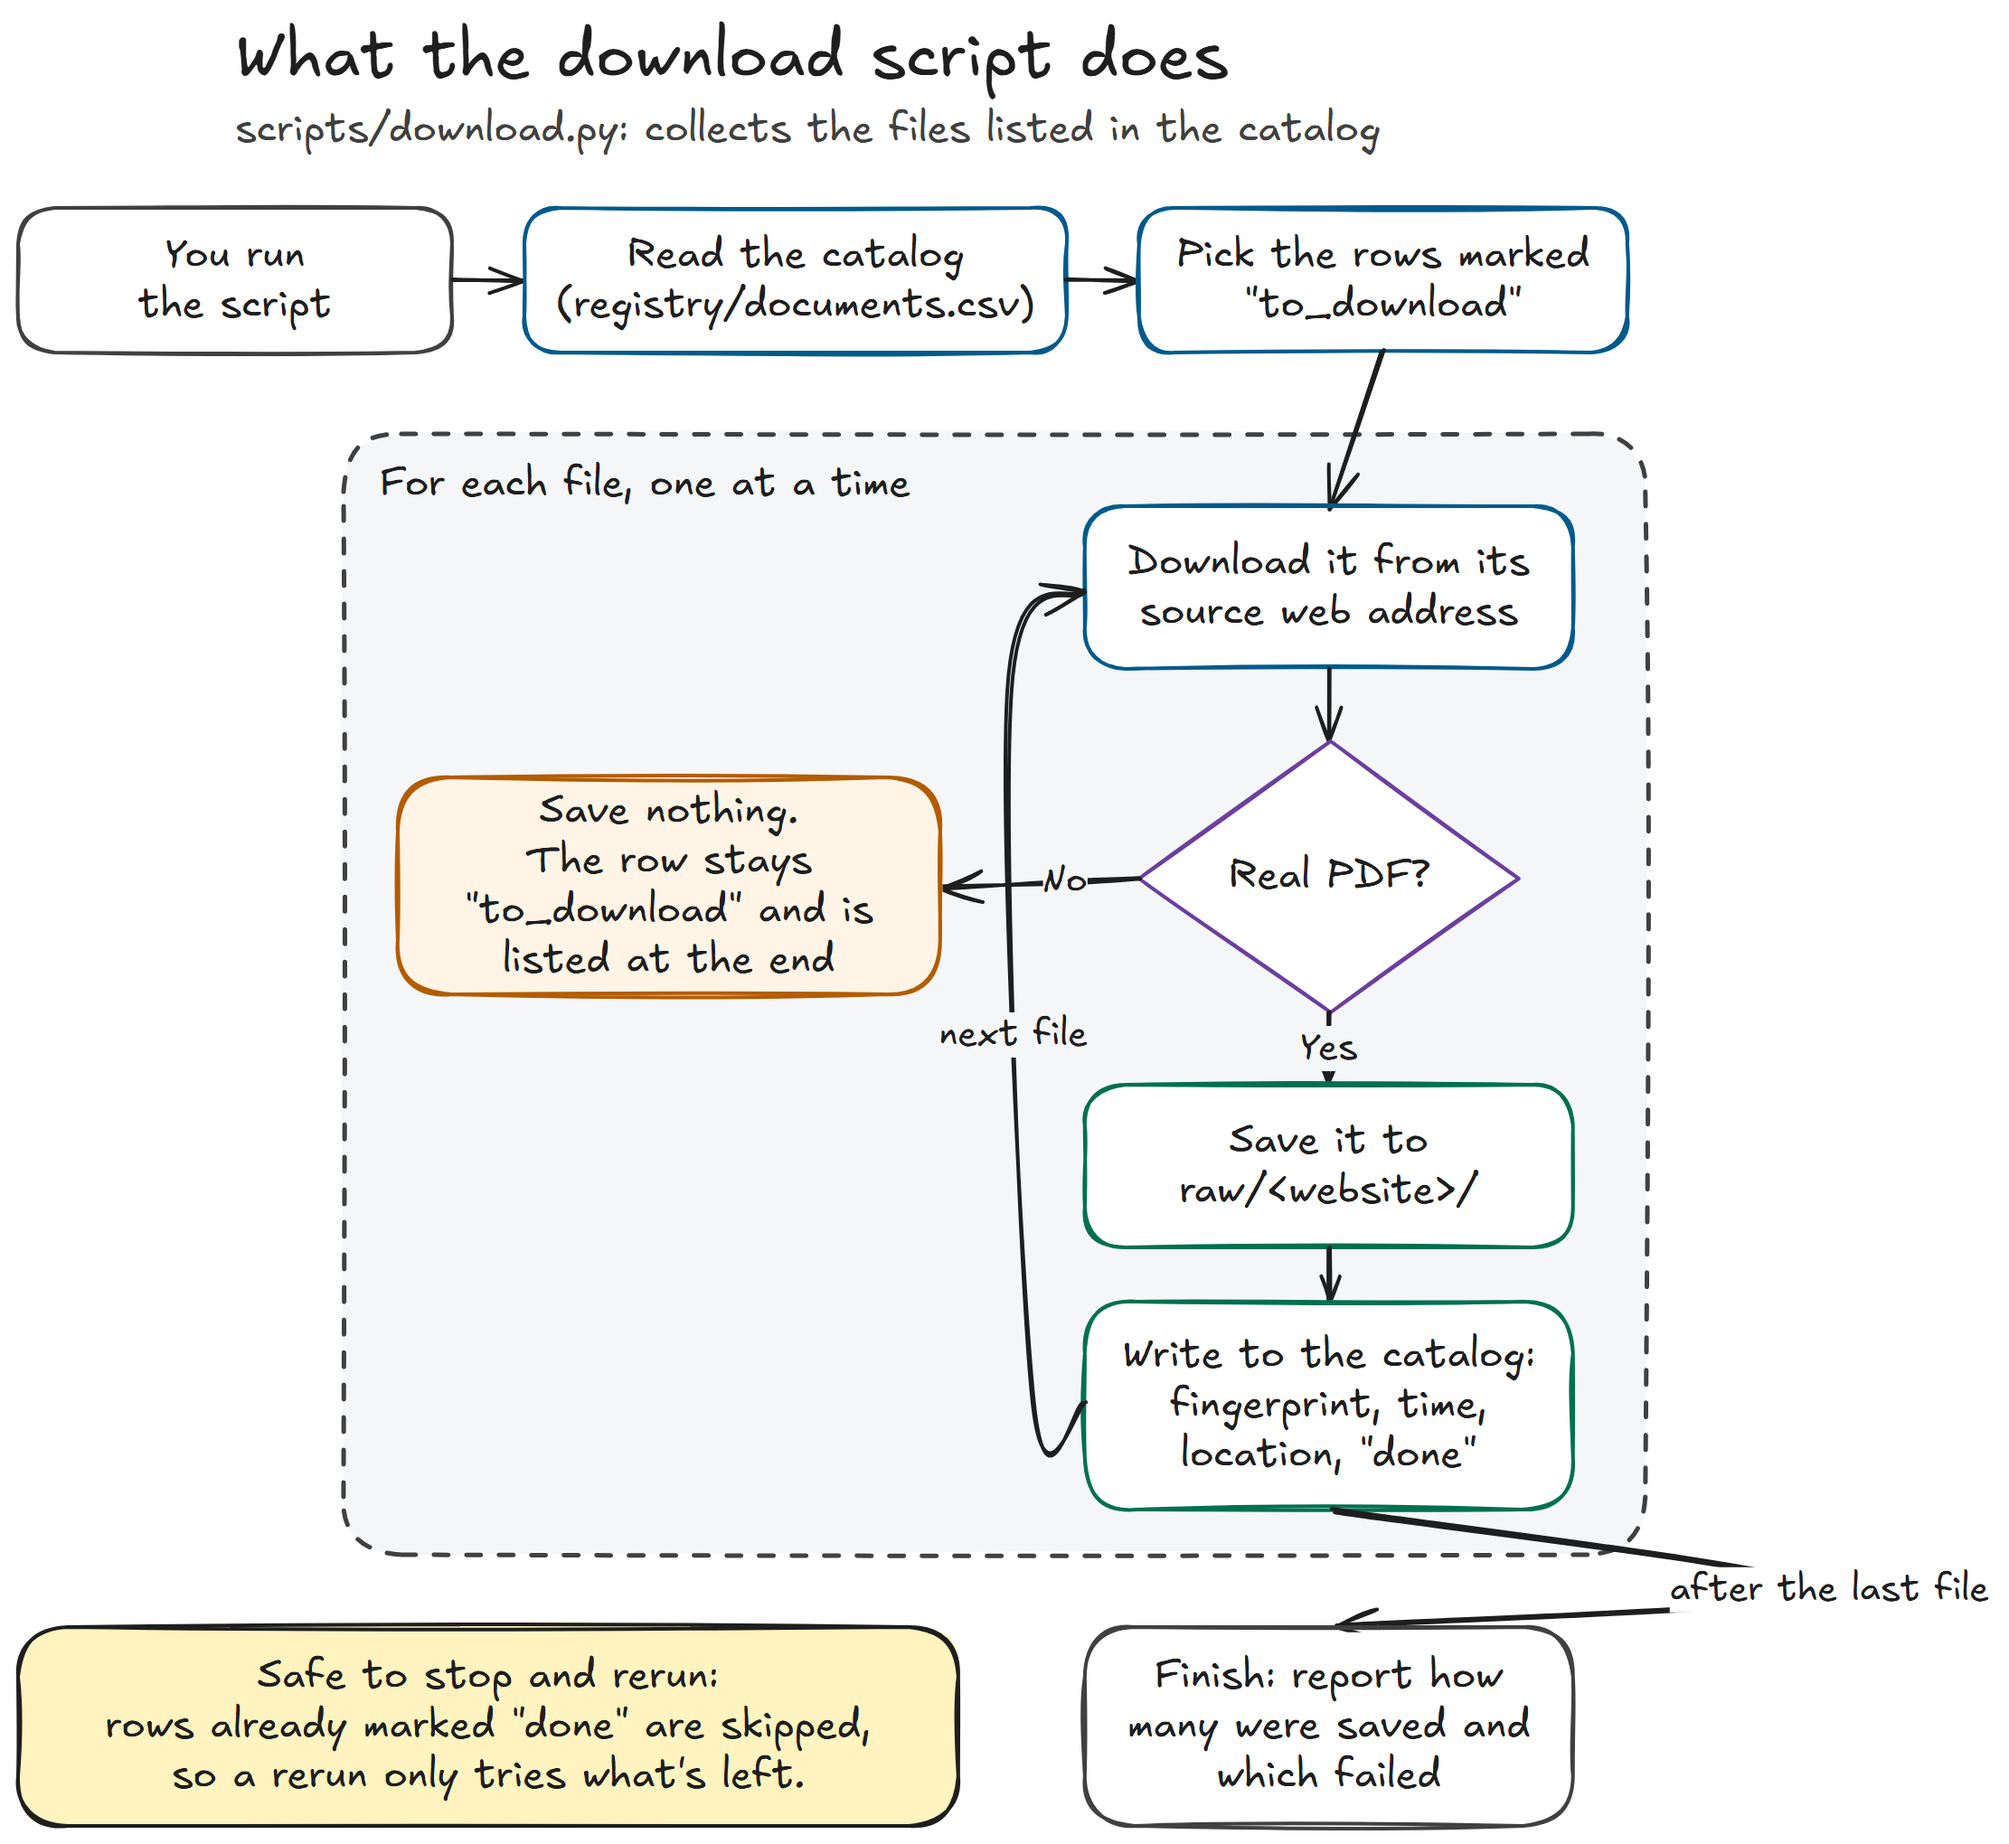
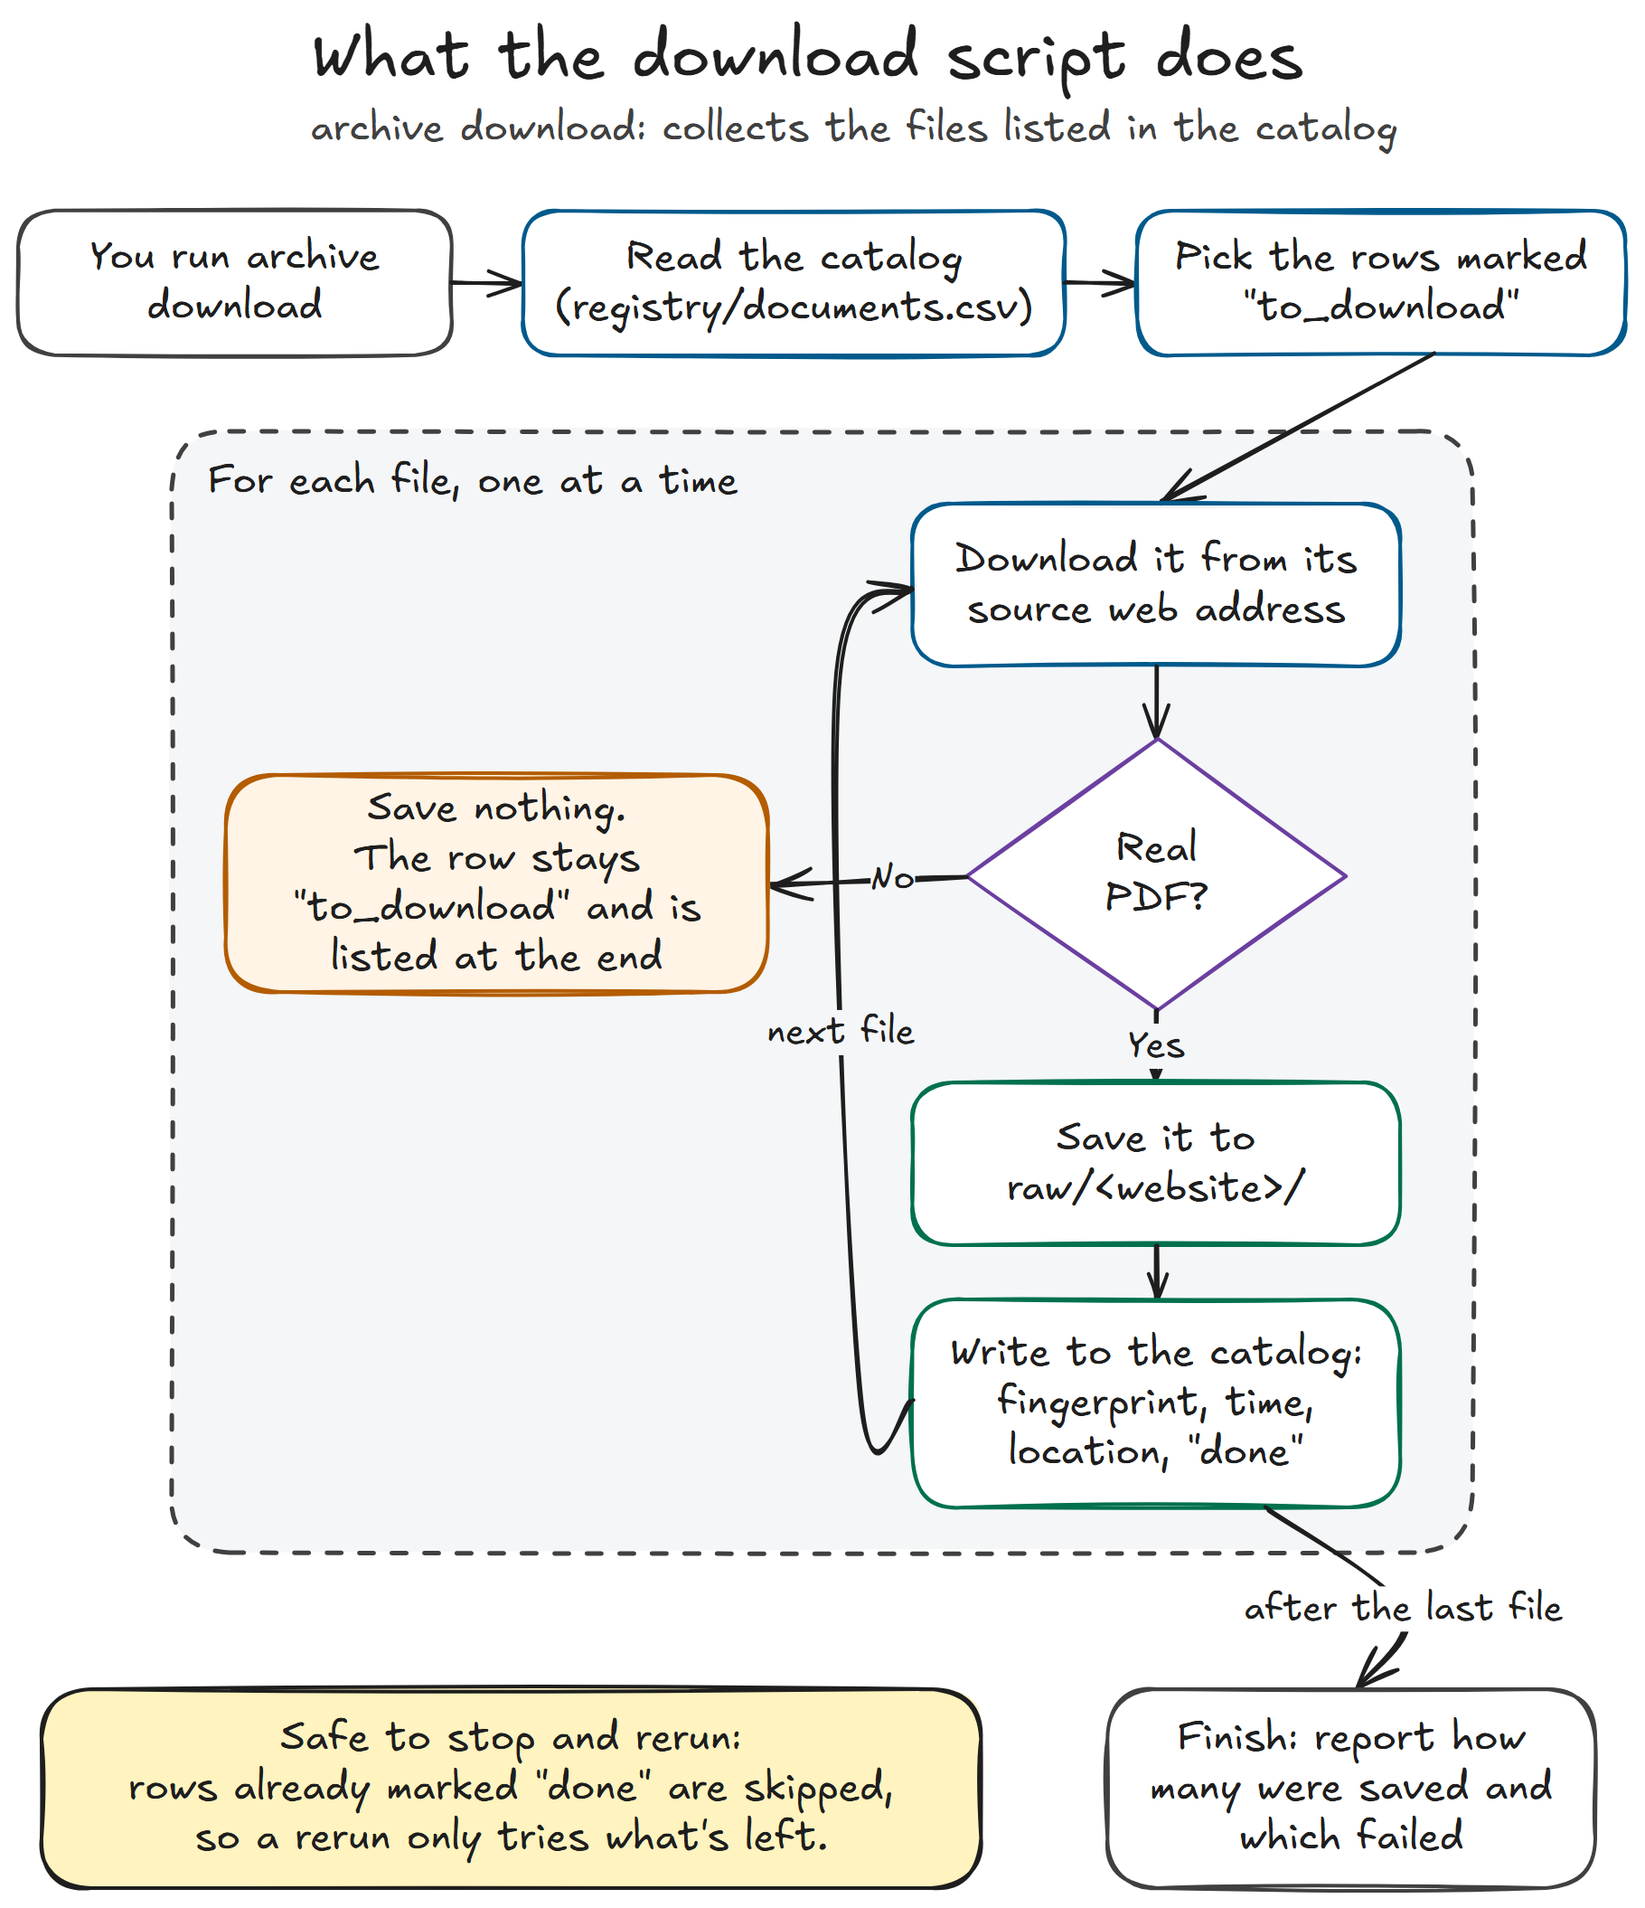
docs: point the docs at the archive command
- Replace `scripts/...` commands with `archive ...` in the notebook, spec and download diagram
- Trim the README to setup, running a step, diagrams and checks, and link the pipeline plan

diff --git a/README.md b/README.md
@@ -1,60 +1,35 @@
 # JBPHH DW Archive Pipeline
 
-Collects public JBPHH drinking water documents into the **JBPHH DW Archive & Registry** Shared Drive, recording where each file came from, when it was retrieved, and its SHA-256 hash.
+Collects public JBPHH drinking water documents into the **[JBPHH DW Archive & Registry](https://drive.google.com/drive/folders/0AHEAE78xvLlaUk9PVA)** Shared Drive and records where each file came from, when it was saved, and its SHA-256 fingerprint. **This repo holds only code**. The files and the catalog (`registry/documents.csv`, columns explained in `registry/README.md`) live in the Shared Drive.
 
-The registry (`registry/documents.csv` in the Shared Drive) is the list of documents and the record of what has been collected. Its columns are described in `registry/README.md` there. This repo holds only code; files and the registry stay in the Shared Drive.
+The goal, decisions and order of work are in [docs/pipeline-plan.md](docs/pipeline-plan.md).
 
 ## Setup (once per computer)
 
 1. Install [uv](https://docs.astral.sh/uv/).
-2. In this folder, run `uv sync`.
+2. Open this folder in VS Code, open a new terminal, run `uv sync`, then `uv run playwright install chromium`.
 3. Copy `.env.example` to `.env` and set `ARCHIVE_ROOT` to the Shared Drive folder on this computer.
 
-## Download files
+## Run a step
 
-![What the download script does: it reads the catalog, picks rows marked to_download, and for each file downloads it and checks it is a real PDF. If not, it saves nothing and the row stays to_download. If so, it saves the file to raw/<website>/ and writes its fingerprint, time, location and done status to the catalog, then moves to the next file. At the end it reports what was saved and what failed.](docs/diagrams/download-script.excalidraw.svg)
-
-*[Full-size image (PNG)](docs/diagrams/download-script.png)*
-
-Downloads every registry row with status `to_download` into `raw/<site>/`, then marks it `done` with its hash, retrieval time and path. Safe to stop and rerun: finished rows are skipped. Close `documents.csv` in Excel before running.
-
-```powershell
-uv run --env-file .env scripts/download.py --dry-run   # list what would download
-uv run --env-file .env scripts/download.py --limit 5   # try a few first
-uv run --env-file .env scripts/download.py             # download everything left
+```bash
+uv run archive --help                                # list the steps
+uv run archive download --help                       # one step's options
+uv run --env-file .env archive download --dry-run    # example: see what would download
 ```
 
-Failed downloads are listed at the end and stay `to_download`, so a rerun retries them.
+Add `--env-file .env` to any step that uses the Shared Drive. Close `documents.csv` in Excel first.
 
-## Diagram PNGs
+## Diagrams
 
-Diagrams are saved as `name.excalidraw.svg`: an SVG that is also the editable drawing. Diagrams of the archive live in the archive's `docs/diagrams/`; diagrams of this code live in this repo's `docs/diagrams/`. Edit them in VS Code with the Excalidraw extension; saving updates the SVG. Word and Google Docs can't show SVG, so this script writes `name.png` beside each one, rebuilding only PNGs older than their SVG:
-
-```powershell
-uv run playwright install chromium                     # once per computer
-uv run --env-file .env scripts/export_pngs.py          # archive diagrams
-uv run scripts/export_pngs.py --folder docs/diagrams   # this repo's diagrams
-```
-
-When a script's behavior changes, update its diagram in the same commit.
-
-## Stepped diagrams
-
-Some workflows are drawn as stepped diagrams: **Back / Next** buttons and a caption for each step, in the same hand-drawn Excalidraw style. Each one is a short spec in `docs/diagrams/specs/`; the top of each spec explains its format. Screenshots used in a diagram live in `docs/diagrams/screenshots/`, with the capture date in the file name, because websites change. To build one (this needs an internet connection, because Excalidraw is loaded from esm.sh):
-
-```powershell
-uv run --env-file .env scripts/build_stepper.py docs/diagrams/specs/listing-check-by-hand.toml
-```
-
-This writes `<name>.embed.html` (the stepped diagram), `<name>.excalidraw.svg` and `<name>.png` to the archive's `docs/diagrams/`. To change a stepped diagram, edit its spec and rebuild: a rebuild replaces all three files, so edits made to them directly are lost.
-
-## Workflows notebook
-
-`workflows.ipynb` shows every workflow diagram in one place. Open it in VS Code, select this folder's `.venv` as the kernel, and choose **Run All**. GitHub can't play stepped diagrams; open the `.embed.html` files in a web browser instead.
+- `workflows.ipynb` shows every workflow diagram. Open it in VS Code, select this folder's `.venv` as the kernel, and choose **Run All**.
+- Diagrams are `name.excalidraw.svg` files. Edit them in VS Code with the Excalidraw extension, then run `uv run --env-file .env archive diagrams png` to refresh their PNG copies for Word and Google Docs. Add `--folder docs/diagrams` for this repo's own diagrams.
+- Stepped (Back / Next) diagrams are built from specs in `docs/diagrams/specs/`. Edit the spec, then run `uv run --env-file .env archive diagrams build <spec>`. A rebuild replaces the diagram's files, so don't edit those directly.
+- When a step's behavior changes, update its diagram in the same commit.
 
 ## Checks
 
-```powershell
+```bash
 uv run pytest
-uv run ruff check
+uv run ruff check .
 ```
